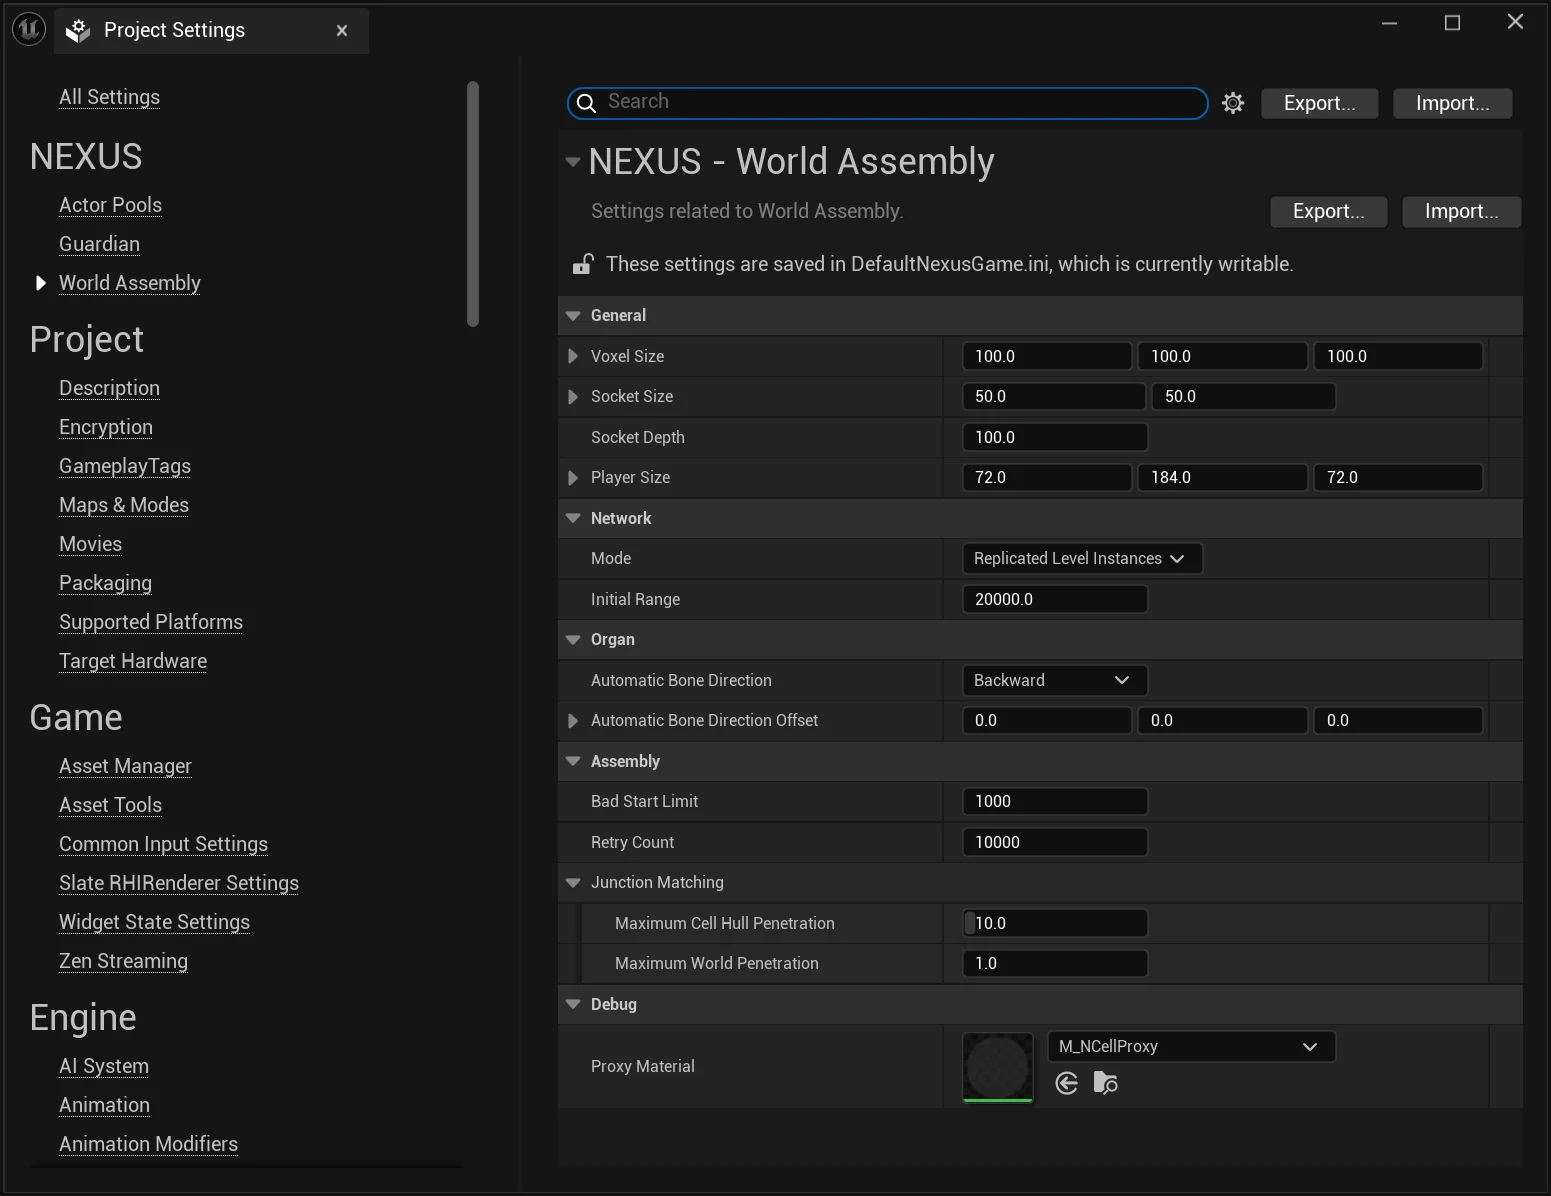
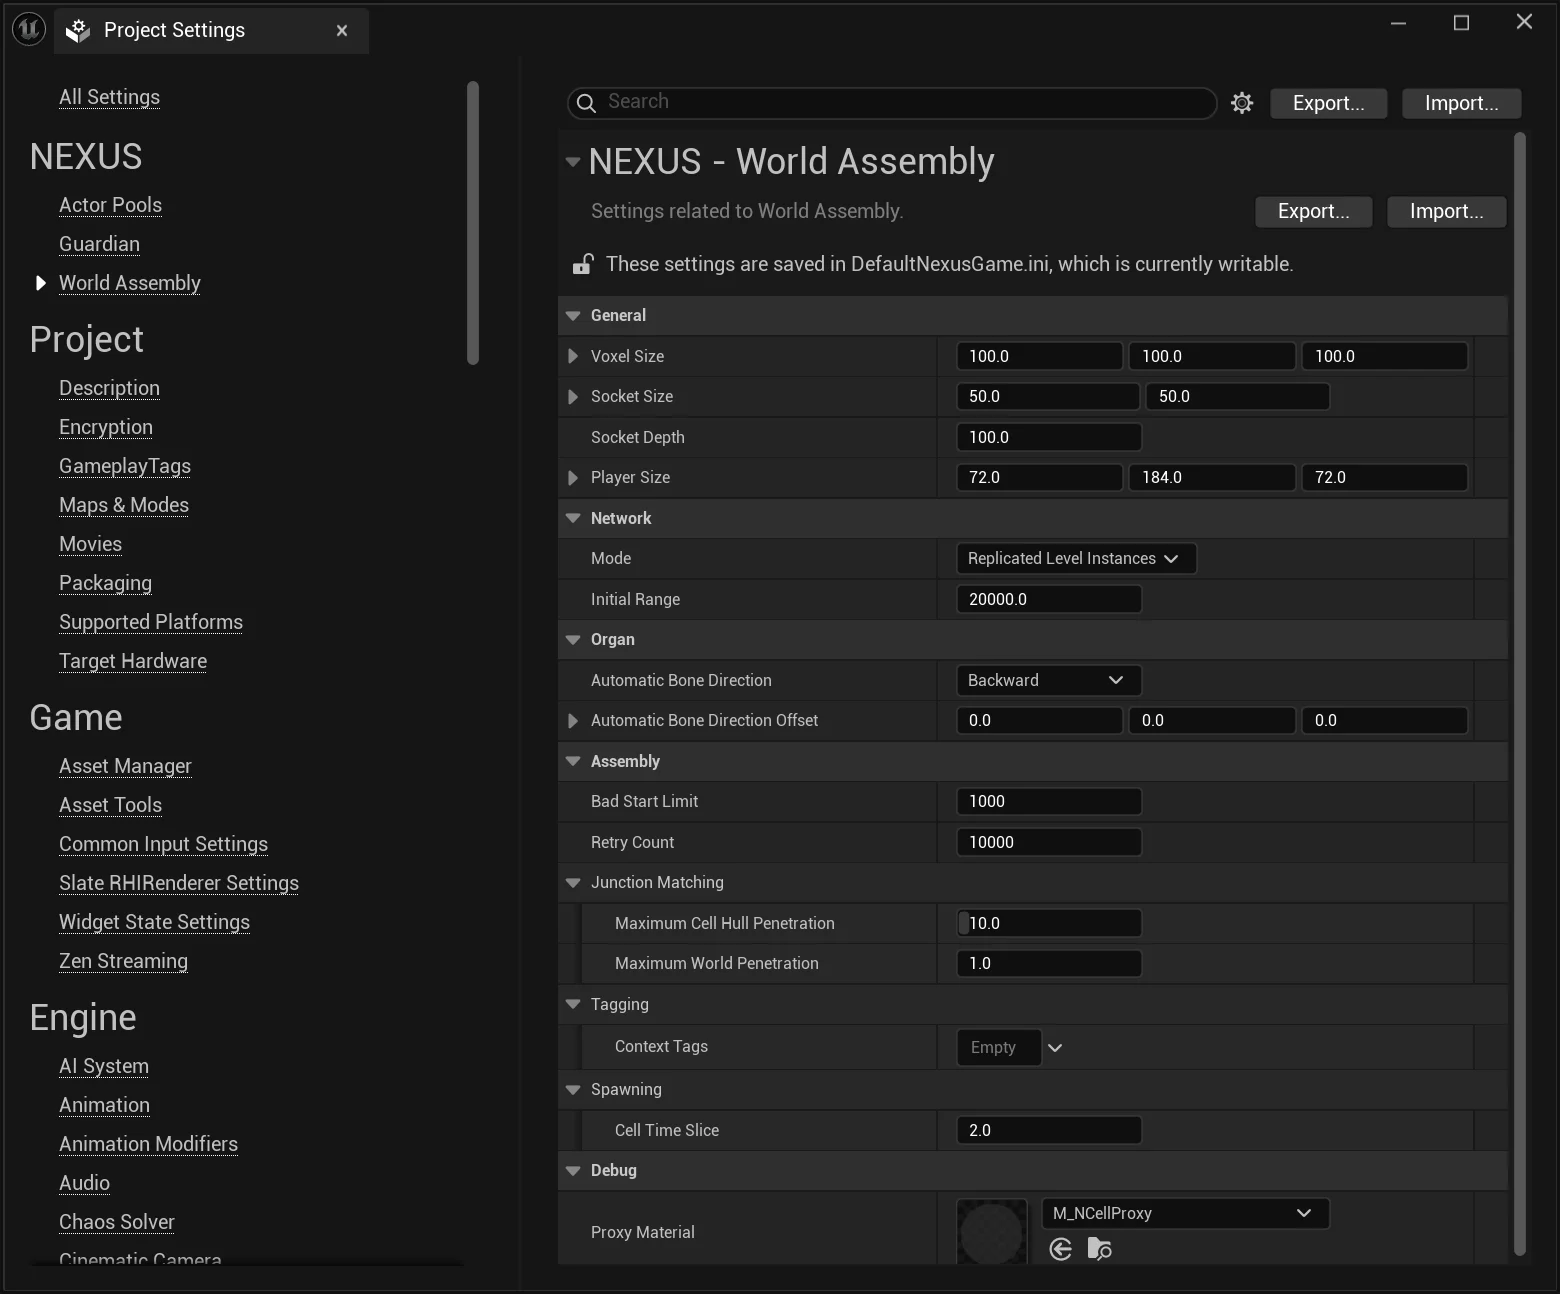
Updates for 0.3.1 content

diff --git a/docs/plugins/world-assembly/types/world-assembly-library.md b/docs/plugins/world-assembly/types/world-assembly-library.md
@@ -1,7 +1,7 @@
 ---
 description: A utility class providing functionality to support World Assembly operations.
 sidebar_class_name: type ue-blueprint-function-library
-tags: [0.3.0]
+tags: [0.3.0, 0.3.1]
 ---
 
 import TypeDetails from '../../../../src/components/TypeDetails';
@@ -28,17 +28,17 @@ static FString GetNewFriendlySeed();
 
 Internally this delegates to `FNSeedGenerator::RandomFriendlySeed()`, so the result is a readable token rather than an opaque number — handy for surfacing in UI or logs where a player or designer might want to share or re-enter the seed.
 
-### Get Output Tags (ANCellLevelInstance)
+### Get Context Tags (ANCellLevelInstance)
 
-Returns the output `FGameplayTagContainer` carried by the supplied `ANCellLevelInstance` — the tags that cell contributes to the surrounding generation context.
+Returns the context `FGameplayTagContainer` carried by the supplied `ANCellLevelInstance`.
 
 ```cpp
 /**
- * @param LevelInstance The cell level instance to read output tags from.
- * @return A reference to the level instance's output gameplay tags.
+ * @param LevelInstance The cell level instance to read context tags from.
+ * @return A reference to the level instance's context gameplay tags.
  */
-UFUNCTION(BlueprintCallable, Category = "NEXUS|WorldAssembly", DisplayName="Get Output Tags (ANCellLevelInstance)")
-static FGameplayTagContainer& GetOutputTagsFromCellLevelInstance(ANCellLevelInstance* LevelInstance);
+UFUNCTION(BlueprintCallable, Category = "NEXUS|WorldAssembly", DisplayName="Get Context Tags (ANCellLevelInstance)")
+static FGameplayTagContainer& GetContextTagsFromCellLevelInstance(ANCellLevelInstance* LevelInstance);
 ```
 
 The container is returned by reference, so reads reflect the live state of the level instance.

diff --git a/docs/plugins/world-assembly/types/tissue.md b/docs/plugins/world-assembly/types/tissue.md
@@ -1,6 +1,7 @@
 ---
 description: A Junction serves as a sized (XY) connection point between two Cells.
 sidebar_class_name: type ue-data-asset
+tags: [0.3.0, 0.3.1]
 ---
 
 import TypeDetails from '../../../../src/components/TypeDetails';
@@ -45,6 +46,10 @@ Identifying an `FGameplayTag` as part of `Tag Groups > Unique` will create a beh
 
 When an `FGameplayTag` is added to `Tag Groups > Required (Any)`, after the generation of the `Cell Graph` during an assembly operation, the graph will be validated to ensure that at least one `UNCell` was used that had this `FGameplayTag` associated to it via `Assembly Tags`. If none were, the graph is regenerated.
 
+#### `BadNeighbors`
+
+When an `FGameplayTag` is part of the `Tag Groups > Bad Neighbors` it prevents any cell in that group from being connected to another of that same group.
+
 #### `Unique` & `RequiredAny` Special Behavior
 
 A common requirement when generating gameplay spaces is ensuring that there is some sort of Boss encounter. This is where combining `Unique` and `RequiredAny` has a compound effect with a little extra magic behind the scenes. In a contrived example, you would have two `UNCell` boss-room entries, both would be set to have a `MinimumCount` and `MaximumCount` of `1`, and would get tagged with some `FGameplayTag` that ends up in `Tag Groups > Unique` and `Tag Groups > Required (Any)`. When it's set up like this, the `MinimumCount` is ignored, as well as the "every" part of `Required` when validating the graph.
@@ -54,7 +59,8 @@ A common requirement when generating gameplay spaces is ensuring that there is s
 | Settings | | Default |
 | --- | --- | --- |
 | Assembly Tags | Tags used to define behavior during the assembly process, pulled from `NEXUS.WorldAssembly.*`. _See [Tagging](../tagging.md#assembly-gameplay-tags)_ | `(Empty)` |
-| Output Tags | Tags which get accumulated based on `UNCell` usage, and provided for context post-assembly. Accessible by `INCellInitialized` interface via the `ANCellLevelInstance`. | `(Empty)` |
+| Added Context Tags | Tags which get accumulated based on `UNCell` usage, and are provided for context post-assembly. Initial `Context Tags` are established by the `FNAssemblyOperationSettings` used. Default settings are also available in the `Project Settings`. Accessible by `INCellInitialized` interface via the `ANCellLevelInstance`. | `(Empty)` |
+| Required Context Tags | Tags that must exist in the accumulated `Context Tags` of the assembly operation for this cell to be placable.| `(Empty)` |
 | Always Relevant | Whether the `ANCellLevelInstance` should be spawned always relevant for networking purposes | `false` | 
 | Minimum Count | ***NOT IMPLEMENTED*** Only used to determine specific-unique case exclusion (_not tag related_). | `-1` |
 | Maximum Count | The maximum number of times this cell can be used in the generated `FNAssemblyGraph`. (_-1 no constraint_) | `-1` | 

diff --git a/docs/plugins/world-assembly/tagging.md b/docs/plugins/world-assembly/tagging.md
@@ -1,7 +1,7 @@
 ---
 description: Tags play an interesting role within World Assembly, providing a cheap and effective way to markup content, drive behavior, and convey information to third-party consumers.
 sidebar_position: 3
-tags: [0.3.0]
+tags: [0.3.0, 0.3.1]
 ---
 
 # Tagging
@@ -77,3 +77,7 @@ Only one of the tagged items can be placed in an Organ Assembly. This is just a 
 #### `NEXUS.WorldAssembly.BuiltIn.RequiredAny`
 
 Predefined group that ensures anything in it must be present in the generated graph; when combined with `Unique`, ensures only one is present, ignoring `MinimalCount`. You can make your own to create discrete groups to assign to the `Tag Groups > Required (Any)` option.
+
+#### `NEXUS.WorldAssembly.BuiltIn.BadNeighbors`
+
+Predefined group that makes it so any member cell entry of that group cannot be placed beside each other, making them bad neighbors. You can make your own to create discrete groups to assign to the `Tag Groups > Bad Neighbors` option.

diff --git a/docs/plugins/world-assembly/project-settings.md b/docs/plugins/world-assembly/project-settings.md
@@ -1,7 +1,7 @@
 ---
 sidebar_position: 6
 description: The project settings for NWorldAssembly.
-tags: [0.3.0]
+tags: [0.3.0, 0.3.1]
 ---
 
 # Project Settings
@@ -43,6 +43,8 @@ From the `Edit > Project Settings` window, find the **World Assembly** section.
 | `Retry Count` | The maximum amount of full attempts at assembling a space before it is considered a complete failure. | `10000` |
 | `Junction Matching > Maximum Cell Hull Penetration` | The maximum depth of penetration a cell's convex hull can penetrate another to make a junction connection. | `10.f` |
 | `Junction Matching > Maximum World Penetration` | The maximum depth of penetration a cell's convex hull can penetrate world geometry to make a junction connection. | `2.f` |
+| `Tagging > Context Tags` | Default `Context Tags` provided to every Assembly Operation. | `(empty)` |
+| `Spawning > Cell Time Slice` | Frame-time goal limit when to split spawning cells to the next frame task (in milliseconds). | `2.f` |
 
 
 ### Debug

diff --git a/docs/plugins/world-assembly/types/cell-initialized.md b/docs/plugins/world-assembly/types/cell-initialized.md
@@ -1,6 +1,7 @@
 ---
 sidebar_class_name: type ue-interface
 description: Interface implemented by actors that need to react when their owning cell has been initialized from a proxy.
+tags: [0.3.0, 0.3.1]
 ---
 
 import TypeDetails from '../../../../src/components/TypeDetails';
@@ -9,7 +10,7 @@ import TypeDetails from '../../../../src/components/TypeDetails';
 
 <TypeDetails icon="ue-interface" base="interface" type="INCellInitialized" typeExtra=" / UNCellInitialized" headerFile="NexusWorldAssembly/Public/Cell/INCellInitialized.h" />
 
-Implemented by actors placed inside a [Cell](cell.md) level that need to react once their owning cell has been initialized from a proxy. Such actors are discovered during author-time saving and are registered as initialize-callback actors with the `ANCellActor`. When the `ANCellActor` finishes applying data from its proxy, it invokes `OnInitializedFromProxy` on each of them, handing over the spawned `ANCellLevelInstance`. This is the entry point for gameplay actors to read post-assembly context — for example the accumulated [Tissue](tissue.md) Output Tags — from the cell.
+Implemented by actors placed inside a [Cell](cell.md) level that need to react once their owning cell has been initialized from a proxy. Such actors are discovered during author-time saving and are registered as initialize-callback actors with the `ANCellActor`. When the `ANCellActor` finishes applying data from its proxy, it invokes `OnInitializedFromProxy` on each of them, handing over the spawned `ANCellLevelInstance`. This is the entry point for gameplay actors to read post-assembly context — for example the accumulated [Tissue](tissue.md) Context Tags — from the cell.
 
 ## What It Is
 

diff --git a/docs/plugins/world-assembly/types/organ-volume.md b/docs/plugins/world-assembly/types/organ-volume.md
@@ -1,7 +1,7 @@
 ---
 description: A spatial volume that defines where World Assembly of Cells (via Tissues) should be generated.
 sidebar_class_name: type ue-volume
-
+tags: [0.3.0, 0.3.1]
 ---
 
 import TypeDetails from '../../../../src/components/TypeDetails';

diff --git a/docs/plugins/world-assembly/types/bone-component.md b/docs/plugins/world-assembly/types/bone-component.md
@@ -1,6 +1,7 @@
 ---
 description: A Bone functions as a connection point outside of a Cell that is used as a starting point during World Assembly.
 sidebar_class_name: type ue-scene-component
+tags: [0.3.0, 0.3.1]
 ---
 
 import TypeDetails from '../../../../src/components/TypeDetails';

diff --git a/docs/plugins/world-assembly/types/cell.md b/docs/plugins/world-assembly/types/cell.md
@@ -1,6 +1,7 @@
 ---
 description: A reusable level wrapper that lets World Assembly reason about placement without loading the source map.
 sidebar_class_name: type ue-data-asset
+tags: [0.3.0, 0.3.1]
 ---
 
 

diff --git a/docs/plugins/world-assembly/types/junction-component.md b/docs/plugins/world-assembly/types/junction-component.md
@@ -1,6 +1,7 @@
 ---
 description: A Junction serves as a sized (XY) connection point between two Cells.
 sidebar_class_name: type ue-scene-component
+tags: [0.3.0, 0.3.1]
 ---
 
 import TypeDetails from '../../../../src/components/TypeDetails';